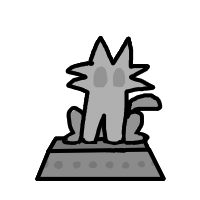
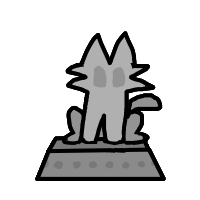
Add patted cat state - hover shows perked, click shows patted briefly

diff --git a/src/scripts/cats.js b/src/scripts/cats.js
@@ -40,26 +40,34 @@ class CatManager {
             // Prevent any default browser behavior
             event.preventDefault();
             
-            // Check if clicking on visible pixel
-            if (this.isHovering) {
-                // Update the score
-                this.game.updateScore(1);
-                
-                // Increment click count
-                this.clickCount++;
-                
-                // Animate the click
-                this.animateClick(cat);
-                
-                // Check for click milestones
-                this.checkClickMilestones();
-            }
+            // Update the score
+            this.game.updateScore(1);
+            
+            // Increment click count
+            this.clickCount++;
+            
+            // Animate the click
+            this.animateClick(cat);
+            
+            // Check for click milestones
+            this.checkClickMilestones();
         });
     }
 
     animateClick(cat) {
+        const catImg = cat.querySelector('img');
+        
+        // Remove the class first to reset the animation
+        cat.classList.remove('cat-clicked');
+        
+        // Force a reflow to ensure the class removal is processed
+        cat.offsetHeight;
+        
         // Add the click animation class
         cat.classList.add('cat-clicked');
+        
+        // Show patted state
+        this.showPattedState(catImg);
         
         // Create a score popup
         this.createScorePopup(cat);
@@ -67,7 +75,7 @@ class CatManager {
         // Remove the animation class after animation completes
         setTimeout(() => {
             cat.classList.remove('cat-clicked');
-        }, 200);
+        }, 300);
     }
 
     createScorePopup(cat) {
@@ -191,6 +199,20 @@ class CatManager {
             catImg.src = 'assets/cat.png';
             catImg.style.transition = 'all 0.3s ease';
         }
+    }
+
+    showPattedState(catImg) {
+        // Show patted cat image
+        catImg.src = 'assets/cat-patted.png';
+        
+        // Return to perked state after a short delay
+        setTimeout(() => {
+            if (this.isHovering) {
+                catImg.src = 'assets/cat-perked.png';
+            } else {
+                catImg.src = 'assets/cat.png';
+            }
+        }, 200);
     }
 }
 

diff --git a/src/styles/main.css b/src/styles/main.css
@@ -96,9 +96,10 @@ body {
     filter: brightness(1.1) contrast(1.2);
 }
 
-/* Click animation handled by JavaScript */
-
-/* Removed unused click animation keyframes */
+/* Click animation */
+.cat-clicked img {
+    animation: click-bounce 0.3s ease;
+}
 
 .score-popup {
     position: fixed;
@@ -119,9 +120,18 @@ body {
 
 /* Animations */
 @keyframes click-bounce {
-    0% { transform: scale(1); }
-    50% { transform: scale(0.95); }
-    100% { transform: scale(1); }
+    0% { 
+        transform: scale(1); 
+        filter: brightness(1.1) contrast(1.2);
+    }
+    50% { 
+        transform: scale(0.9); 
+        filter: brightness(1.2) contrast(1.3);
+    }
+    100% { 
+        transform: scale(1); 
+        filter: brightness(1.1) contrast(1.2);
+    }
 }
 
 @keyframes float-up {
